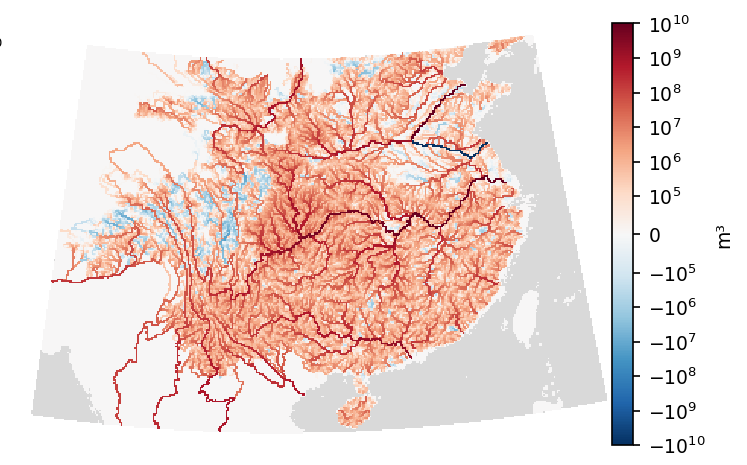
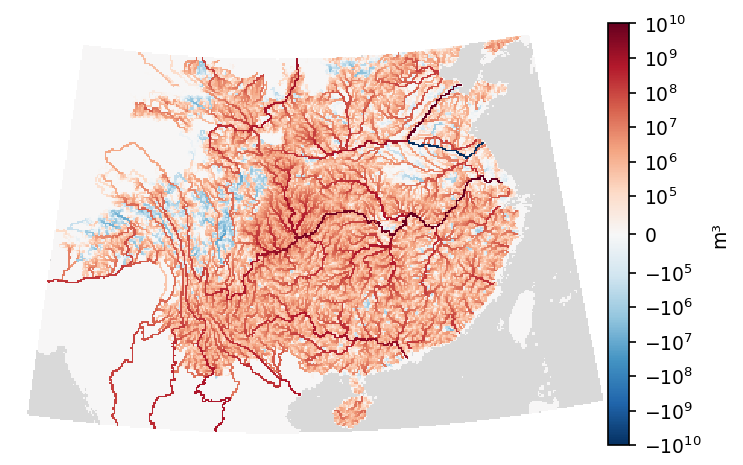
darktheme-color

diff --git a/_sass/_themes.scss b/_sass/_themes.scss
@@ -12,6 +12,7 @@
   --global-text-color-light: #{$grey-color};
   --global-theme-color: #014F86;
   --global-hover-color: #014F86;
+  --global-badge-color: #014F86;
   --global-hover-text-color: #{$white-color};
   --global-footer-bg-color: #faf7ef;
   --global-footer-text-color: #{$grey-color-dark};
@@ -82,8 +83,9 @@ html[data-theme="dark"] {
   --global-code-bg-color: #{$code-bg-color-dark};
   --global-text-color: #{$grey-color-light};
   --global-text-color-light: #{$grey-color};
-  --global-theme-color: #2c75ad;
-  --global-hover-color: #2c75ad;
+  --global-theme-color: #4C90C8;
+  --global-hover-color: #4C90C8;
+  --global-badge-color: #2c75ad;
   --global-hover-text-color: #{$white-color};
   --global-footer-bg-color: #111D25;
   --global-footer-text-color: #{$grey-color-light};

diff --git a/_sass/_base.scss b/_sass/_base.scss
@@ -520,7 +520,7 @@ footer.sticky-bottom {
 
       .badge {
         color: $white-color !important;
-        background-color: var(--global-theme-color) !important;
+        background-color: var(--global-badge-color) !important;
       }
     }
   }
@@ -738,7 +738,7 @@ footer.sticky-bottom {
 
         abbr {
           display: inline-block;
-          background-color: var(--global-theme-color);
+          background-color: var(--global-badge-color);
           margin-bottom: 0.5rem;
           color: $white-color !important;
 

diff --git a/_sass/_cv.scss b/_sass/_cv.scss
@@ -175,7 +175,7 @@ ul.timeline li {
 
 span.badge-toc {
   color: var(--global-bg-color);
-  background-color: var(--global-theme-color);
+  background-color: var(--global-badge-color);
   border-radius: 0.125rem;
   padding: 0.125rem 0.5rem 0.125rem 0.5rem;
   font-weight: 700 !important;

diff --git a/_pages/about.md b/_pages/about.md
@@ -40,4 +40,4 @@ I am a development economist. My over-arching interest is in how societies can a
 My work aims to explore the multiplicity of institutional equilibria that can deliver growth and development.
 -->
 
-My name is pronounced "Chin Yuan" (Wade-Giles), and I also go by Joe (with the useful property of initial-letter invariance).
+My name is pronounced "Chin Yuan" (Wade-Giles). I also go by Joe (with the useful property of initial-letter invariance).
